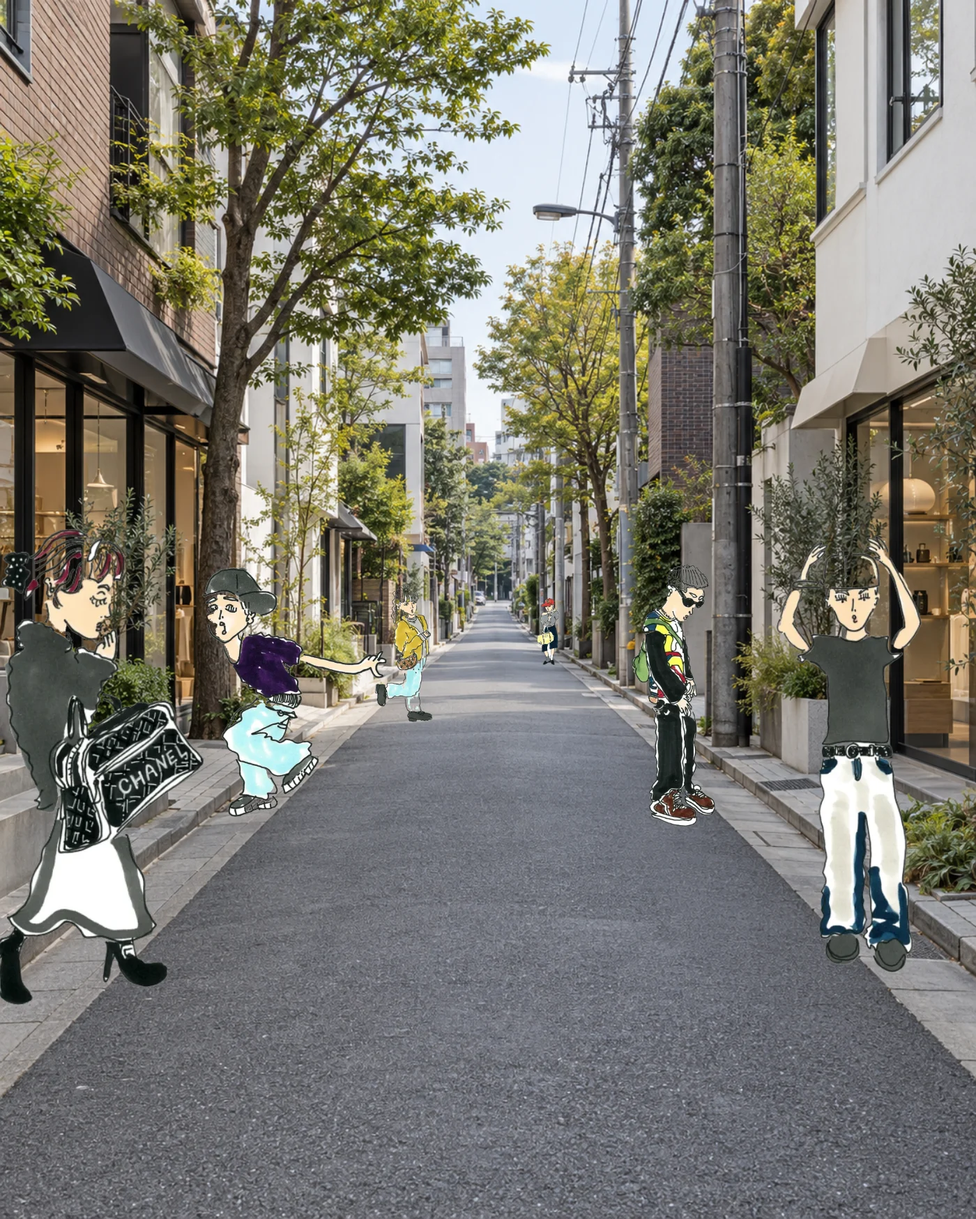
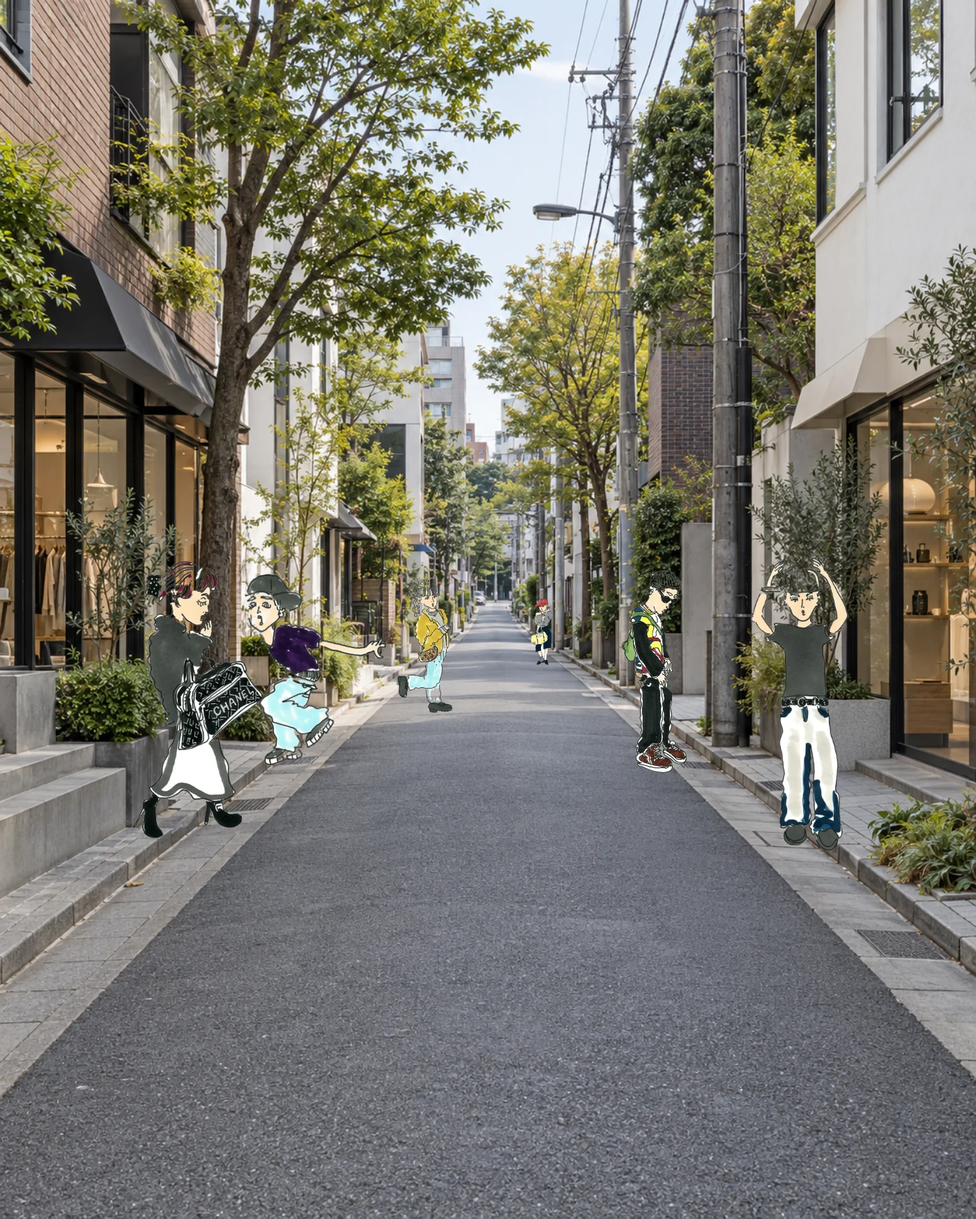
広い画面の4点を直す（スマホは変更なし）
1. 街の人が大きすぎ、足が画面の外に出ていた
   広い画面は写真の上下が切られて画像の縦0.25〜0.75しか出ない。
   手前の2人は画面の高さの72〜87%あり、足元が見えていなかった。
   1400w だけ焼き直し、帯の中に収まる深さへ置き直した（46〜54%に）。
   スマホ用の @700w には触っていない。

2. コラボの言葉が重なっていた
   位置を top 26/44/62/80% と決め打ちしていたため、大きい1本目が
   2本目に食い込んでいた。広い画面では上から順に流す組みに変えた。
   1280/1440/1920 で重なり0件を確認。

3. 行き先の→の位置
   文のかたまり全体に対して中央（togo）／下端（pair）にそろえていたので、
   日本語の行から外れていた。日本語の行の真ん中に来るようにした（ずれ0〜1px）。

4. 字が大きすぎた
   togo 51→40px、pair 46→37px、gate見出し 45→37px、
   WORKS 見出し 54→45px・番号 64→48px・「71」80→58px、
   CONTACT 見出し 51→42px。
   あわせて COLLABORATION の札がヘッダーに隠れていたのを下へ逃がした。

変更はすべて @media(min-width:861px) の中。スマホ側は
読む画像・組み方・字の大きさとも前と同じであることを確認ずみ。

diff --git a/index.html b/index.html
@@ -311,6 +311,34 @@ html.ready .nav{opacity:1}
 .foot a{color:inherit;text-decoration:none}
 .foot a:hover{color:var(--vermil)}
 
+
+/* ===== 広い画面の手入れ（スマホには掛からない） ===== */
+@media(min-width:861px){
+  /* コラボの言葉。位置の決め打ちをやめて上から順に流す。重なりようがなくなる */
+  .collab__flow{display:flex;flex-direction:column;justify-content:center;
+    gap:clamp(1.2rem,3.2vh,2.4rem);
+    padding:clamp(5rem,13vh,8rem) clamp(1.2rem,5vw,4rem)}
+  .blk{position:static;width:min(44vw,540px)}
+  .b1{font-size:clamp(1.7rem,4.2vw,3.4rem)}
+
+  /* 行き先の→を、日本語の行の真ん中にそろえる。
+     ずらす量＝日本語の行の高さの半分 − 矢印の高さの半分（矢印は横:縦=3:1） */
+  .togo{--jp:clamp(1.4rem,4.6vw,2.5rem);--arw:clamp(56px,7vw,92px)}
+  .togo__jp{font-size:var(--jp)}
+  .togo a{align-items:flex-start}
+  .togo__arw{width:var(--arw);margin-top:calc(var(--jp) * 1.3 / 2 - var(--arw) / 6)}
+
+  .pair__row{--jp:clamp(1.3rem,4.2vw,2.3rem);--arw:clamp(50px,6.4vw,84px)}
+  .pair__jp{font-size:var(--jp)}
+  .pair__in{align-items:flex-start}
+  .pair__arw{width:var(--arw);margin-top:calc(var(--jp) * 1.3 / 2 - var(--arw) / 6)}
+
+  /* 見出しが大きすぎたので詰める */
+  .gate h2{font-size:clamp(1.3rem,4.2vw,2.3rem)}
+
+  /* COLLABORATION の札が上のヘッダーに隠れていた。その下へ逃がす */
+  .collab__tag{top:clamp(5rem,10vh,7rem)}
+}
 </style><link rel="stylesheet" href="assets/css/site-header.css">
 <script src="assets/js/site-header.js" defer></script>
 <script>try{var v=sessionStorage.getItem("sh-nav");if(v){sessionStorage.removeItem("sh-nav");var o=JSON.parse(v),d=document.documentElement;d.setAttribute("data-sh-nav",v);d.style.setProperty("--sh-to",'"'+o.k+'"');d.style.setProperty("--sh-jp",'"'+o.j+'"');d.classList.add("sh-arrive")}}catch(e){}</script>

diff --git a/works/index.html b/works/index.html
@@ -321,6 +321,14 @@ body::after{content:"";position:fixed;inset:0;pointer-events:none;z-index:95;
   .frame,.info{opacity:1!important;transform:none!important;transition:none}
   .intro .cue::after{animation:none}
 }
+
+/* ===== 広い画面の手入れ（スマホには掛からない） ===== */
+@media(min-width:861px){
+  .intro h1{font-size:clamp(1.7rem,5.2vw,2.8rem)}
+  .info__no{font-size:clamp(2.2rem,5.5vw,3rem)}
+  .belt__count b{font-size:clamp(2.4rem,7vw,3.6rem)}
+  .next__jp{font-size:clamp(1.2rem,3.6vw,2.1rem)}
+}
 </style><link rel="stylesheet" href="../assets/css/site-header.css">
 <script src="../assets/js/site-header.js" defer></script>
 <script>try{var v=sessionStorage.getItem("sh-nav");if(v){sessionStorage.removeItem("sh-nav");var o=JSON.parse(v),d=document.documentElement;d.setAttribute("data-sh-nav",v);d.style.setProperty("--sh-to",'"'+o.k+'"');d.style.setProperty("--sh-jp",'"'+o.j+'"');d.classList.add("sh-arrive")}}catch(e){}</script>

diff --git a/contact/index.html b/contact/index.html
@@ -128,6 +128,11 @@ body::after{content:"";position:fixed;inset:0;pointer-events:none;z-index:90;
 .foot a:hover{color:var(--vermil)}
 @media(max-width:760px){ .nav a{display:none} }
 @media (prefers-reduced-motion:reduce){ *{transition:none!important;animation:none!important} }
+
+/* ===== 広い画面の手入れ（スマホには掛からない） ===== */
+@media(min-width:861px){
+  .head h1{font-size:clamp(1.6rem,5vw,2.6rem)}
+}
 </style><link rel="stylesheet" href="../assets/css/site-header.css">
 <script src="../assets/js/site-header.js" defer></script>
 <script>try{var v=sessionStorage.getItem("sh-nav");if(v){sessionStorage.removeItem("sh-nav");var o=JSON.parse(v),d=document.documentElement;d.setAttribute("data-sh-nav",v);d.style.setProperty("--sh-to",'"'+o.k+'"');d.style.setProperty("--sh-jp",'"'+o.j+'"');d.classList.add("sh-arrive")}}catch(e){}</script>
